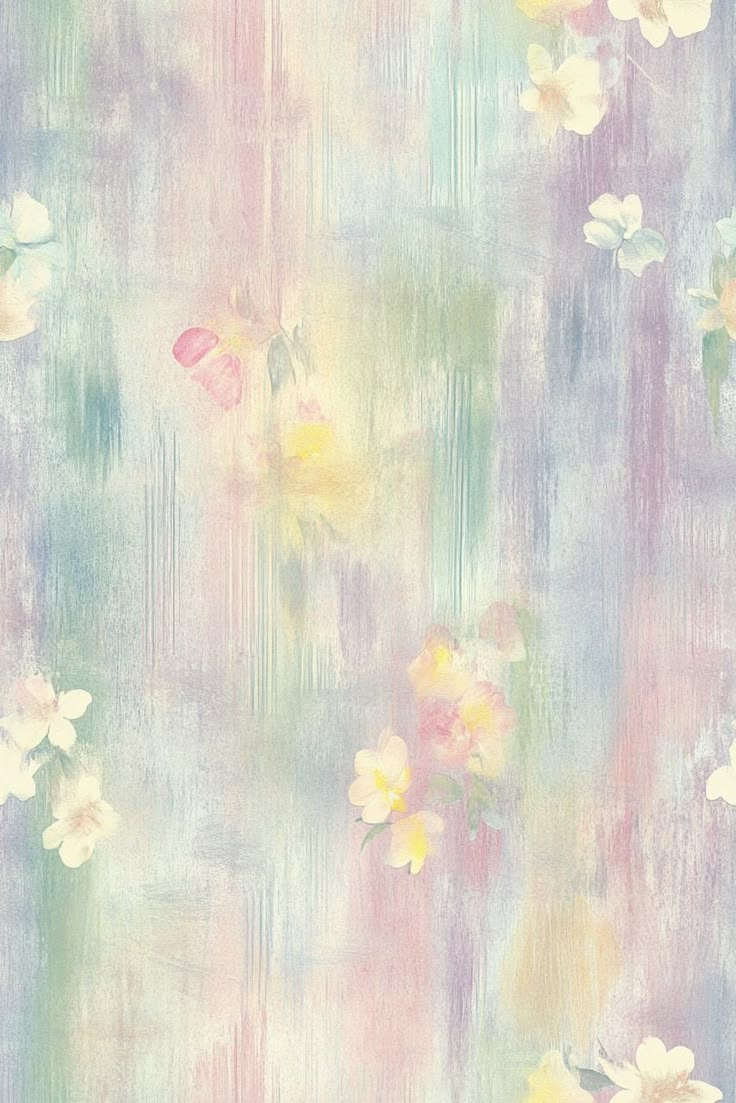
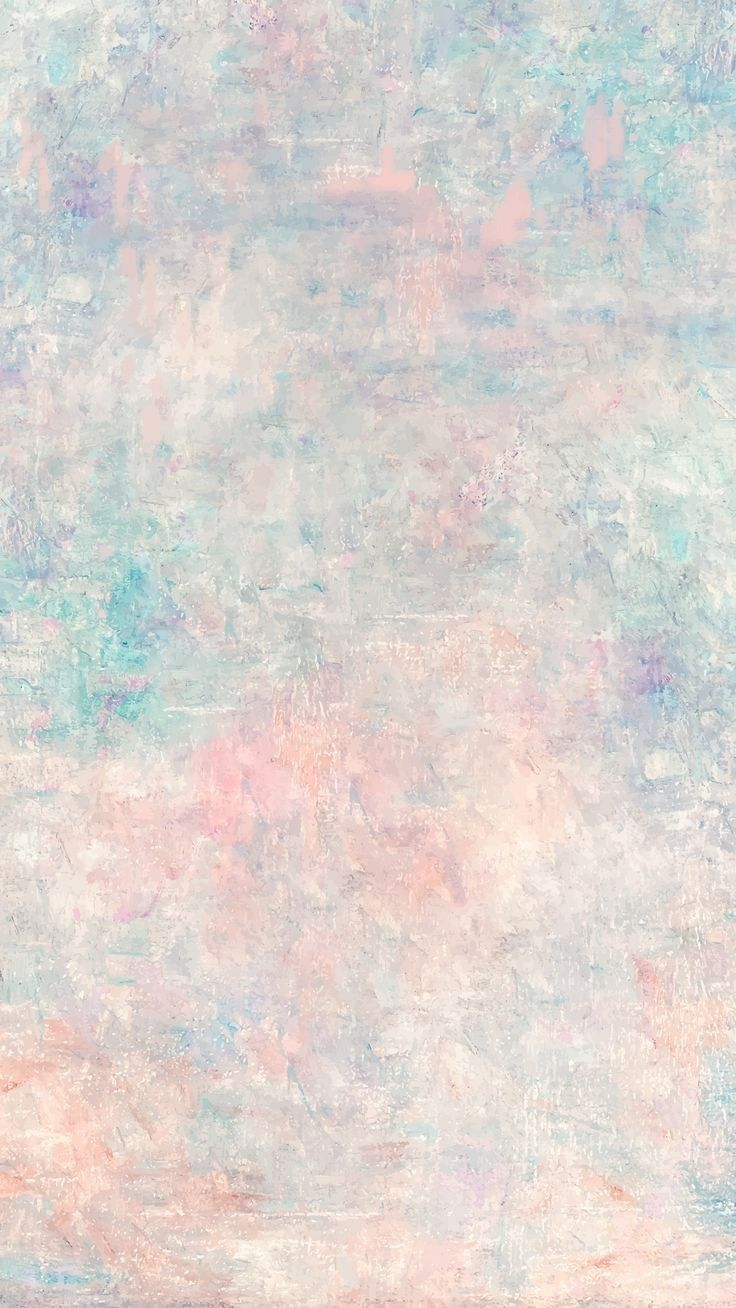
latihan pertemuan 4

diff --git a/nur - undangan ultah/style.css b/nur - undangan ultah/style.css
@@ -7,7 +7,7 @@
 body {
     font-family: Arial, Helvetica, sans-serif;
     /* background-color: #fcf3ff; */
-    background-image: url(background.png);
+    background-image: url(bkgr.png);
     color: #ed5f5f;
     width: 90%;
     max-width: 1100px;
